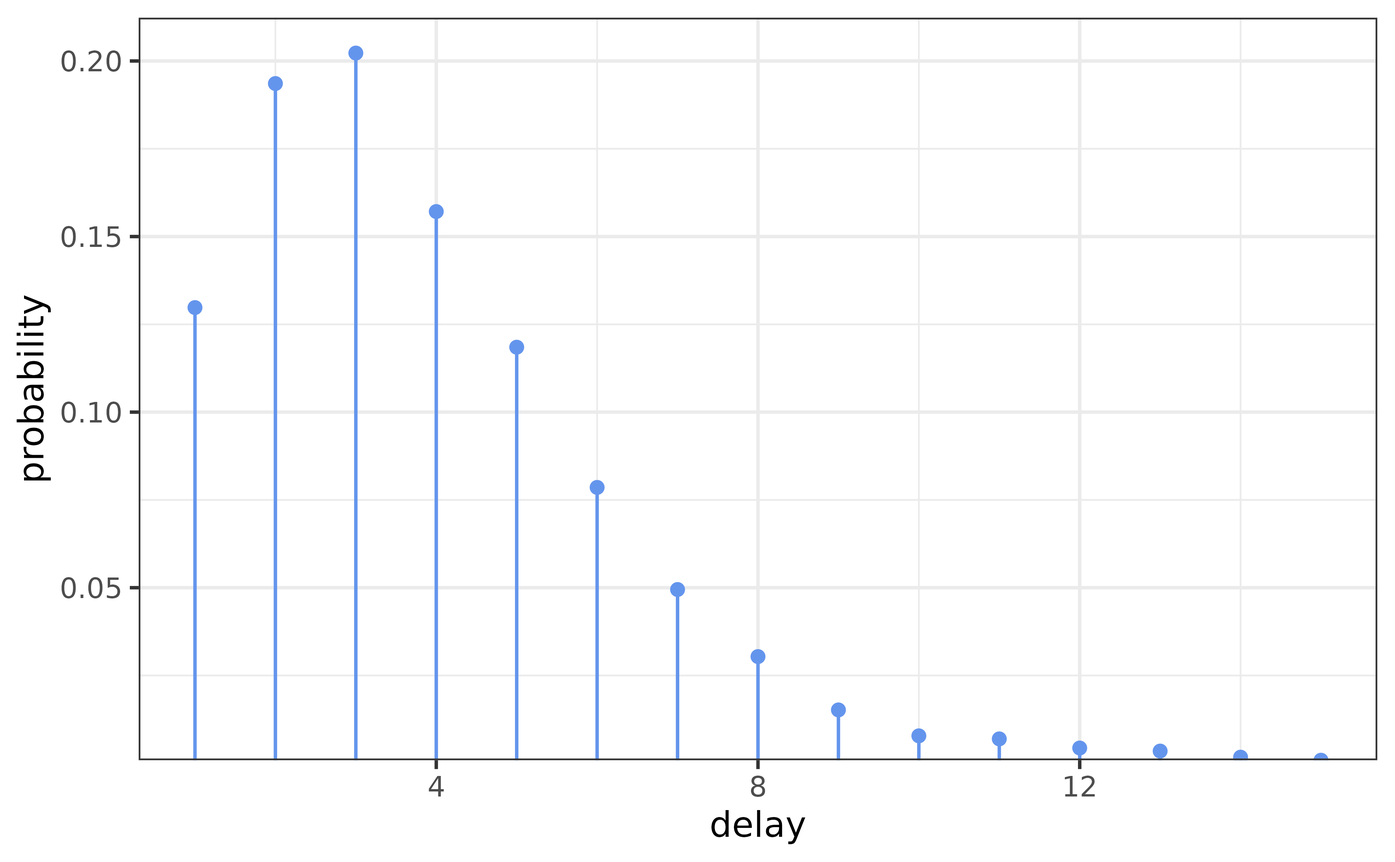
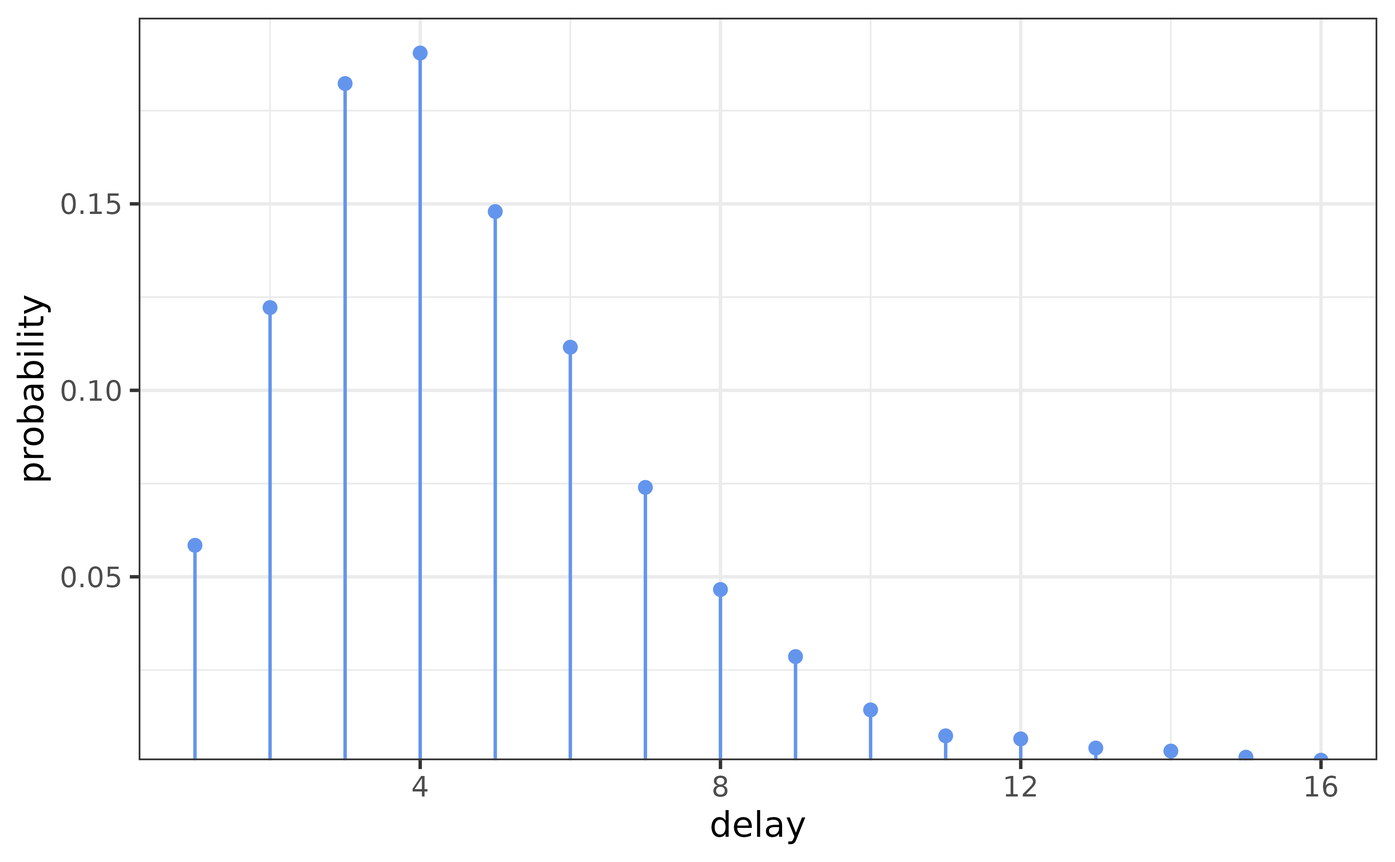
Deploying to gh-pages from @ dajmcdon/rtestim@06ede7e1c2057a1c20ab77ae6ce6dd1f6cf95171 🚀

diff --git a/articles/delay-distributions.html b/articles/delay-distributions.html
@@ -31,7 +31,7 @@
 
     <a class="navbar-brand me-2" href="../index.html">rtestim</a>
 
-    <small class="nav-text text-muted me-auto" data-bs-toggle="tooltip" data-bs-placement="bottom" title="">1.0.0.9001</small>
+    <small class="nav-text text-muted me-auto" data-bs-toggle="tooltip" data-bs-placement="bottom" title="">1.0.0.9002</small>
 
 
     <button class="navbar-toggler" type="button" data-bs-toggle="collapse" data-bs-target="#navbar" aria-controls="navbar" aria-expanded="false" aria-label="Toggle navigation">
@@ -83,21 +83,22 @@
 <span><span class="kw"><a href="https://rdrr.io/r/base/library.html" class="external-link">library</a></span><span class="op">(</span><span class="va"><a href="http://www.stats.ox.ac.uk/pub/MASS4/" class="external-link">nnet</a></span><span class="op">)</span></span>
 <span><span class="kw"><a href="https://rdrr.io/r/base/library.html" class="external-link">library</a></span><span class="op">(</span><span class="va"><a href="https://forcats.tidyverse.org/" class="external-link">forcats</a></span><span class="op">)</span></span>
 <span><span class="kw"><a href="https://rdrr.io/r/base/library.html" class="external-link">library</a></span><span class="op">(</span><span class="va"><a href="https://tidyr.tidyverse.org" class="external-link">tidyr</a></span><span class="op">)</span></span>
+<span><span class="kw"><a href="https://rdrr.io/r/base/library.html" class="external-link">library</a></span><span class="op">(</span><span class="va"><a href="https://Matrix.R-forge.R-project.org" class="external-link">Matrix</a></span><span class="op">)</span></span>
 <span><span class="fu"><a href="https://ggplot2.tidyverse.org/reference/theme_get.html" class="external-link">theme_set</a></span><span class="op">(</span><span class="fu"><a href="https://ggplot2.tidyverse.org/reference/ggtheme.html" class="external-link">theme_bw</a></span><span class="op">(</span><span class="op">)</span><span class="op">)</span></span></code></pre></div>
 <p>This package accommodates 3 different ways of specifying a delay
 distribution in the renewal equation, and this vignette illustrates
 these in turn. The renewal equation specifies that the expected
 incidence at time <span class="math inline">\(t\)</span> is a weighted
 sum of previous incidence, multiplied by <span class="math inline">\(R_t\)</span>: <span class="math display">\[\begin{equation}
-\mathbb{E}[I_t \mid I_1,\ldots,I_{t-1}] = R_t \sum_{a=1}^t w_a I_{t-a},
+\mathbb{E}[I_t \mid I_1,\ldots,I_{t-1}] = R_t \sum_{a=0}^t w_a I_{t-a},
 \end{equation}\]</span> calculated by convolving the preceding <span class="math inline">\(a\)</span> days of new infections with the
 discretized generation (or serial) interval distribution <span class="math inline">\(w\)</span> of length <span class="math inline">\(t\)</span>. It is the allowable distributions
-<span class="math inline">\(\{w\}_{a=1}^n\)</span> that are the
+<span class="math inline">\(\{w\}_{a=0}^n\)</span> that are the
 focus.</p>
 <div class="section level2">
 <h2 id="discretization">Discretization<a class="anchor" aria-label="anchor" href="#discretization"></a>
 </h2>
-<p>First, it is important to recognize that the sequence <span class="math inline">\(\{w\}_{a=1}^n\)</span> is usually a discretization
+<p>First, it is important to recognize that the sequence <span class="math inline">\(\{w\}_{a=0}^n\)</span> is usually a discretization
 of a probability density function, most frequently gamma or Weibull.
 This is because observed incidence happens at discrete time points like
 days or weeks, while time is continuous. Using the default (parametric)
@@ -117,22 +118,23 @@ below shows a few examples densities from this family.</p>
 <p><img src="delay-distributions_files/figure-html/gamma-pdf-1.png" width="80%" style="display: block; margin: auto;"></p>
 <p>The default is the orange curve shown above. Given an incidence
 sequence of length <span class="math inline">\(n\)</span>, internally,
-<code><a href="../reference/delay_calculator.html">delay_calculator()</a></code> creates <span class="math inline">\(\{w\}_{a=1}^n\)</span> by <span class="math display">\[
-w_a = F(a) - F(a - 1),
+<code><a href="../reference/delay_calculator.html">delay_calculator()</a></code> creates <span class="math inline">\(\{w\}_{a=0}^n\)</span> by <span class="math display">\[
+w_a = F(a + 1) - F(a - 1),
 \]</span> and then renormalizing with <code>w / sum(w)</code> to ensure
 that it sums to 1. Here, <span class="math inline">\(F\)</span> is the
 cumulative distribution function for Gamma (though similar works for any
 continuous distribution). Note that this formula assumes that the
-probability of a 0 delay is 0 and that the probability of a delay of
-<span class="math inline">\(a\)</span> is really <span class="math display">\[
-\int_{a-1}^a f_W(w) \, dw = F(a) - F(a-1).
-\]</span></p>
+probability of a 0 delay is <em>not</em> 0. This is related to the
+phenomenon of “double interval censoring”: a primary infection on day
+<span class="math inline">\(t\)</span> may have occurred any time
+between 0:00 and 23:59 and the same for a secondary infection on day
+<span class="math inline">\(t+1\)</span>. So even if the gap in reported
+days is only “1 day”, those infections may have happened as little as a
+few minutes apart, or as much as 48 hours apart.</p>
 <p>When using this default, the delay distribution is necessarily
 assumed to be the same for all <span class="math inline">\(t\)</span>,
 and we compute the convolution of <code>w</code> and <code>I</code> with
-the Fast Fourier Transform. Finally, an adjustment is made to handle the
-first observation. We define <span class="math inline">\(I_0 =
-I_1\)</span>.</p>
+the Fast Fourier Transform.</p>
 <p>Just to illustrate this behaviour, we show the results for the
 default setting on the included <code>cancovid</code> data.</p>
 <div class="sourceCode" id="cb2"><pre class="downlit sourceCode r">
@@ -153,9 +155,9 @@ and use this as our (constant) delay distribution.</p>
 <div class="sourceCode" id="cb3"><pre class="downlit sourceCode r">
 <code class="sourceCode R"><span><span class="co"># Data from Backer et al.</span></span>
 <span><span class="va">delay</span> <span class="op">&lt;-</span> <span class="fu"><a href="https://rdrr.io/r/utils/read.table.html" class="external-link">read.csv</a></span><span class="op">(</span><span class="st">"backer.csv"</span><span class="op">)</span> <span class="op">|&gt;</span></span>
-<span>  <span class="fu"><a href="https://dplyr.tidyverse.org/reference/filter.html" class="external-link">filter</a></span><span class="op">(</span><span class="va">delay</span> <span class="op">&gt;</span> <span class="fl">0</span><span class="op">)</span> <span class="op">|&gt;</span></span>
+<span>  <span class="fu"><a href="https://dplyr.tidyverse.org/reference/filter.html" class="external-link">filter</a></span><span class="op">(</span><span class="va">delay</span> <span class="op">&gt;=</span> <span class="fl">0</span><span class="op">)</span> <span class="op">|&gt;</span></span>
 <span>  <span class="fu"><a href="https://dplyr.tidyverse.org/reference/select.html" class="external-link">select</a></span><span class="op">(</span><span class="op">-</span><span class="va">delay</span><span class="op">)</span></span>
-<span><span class="va">delay</span> <span class="op">&lt;-</span> <span class="fu"><a href="https://rdrr.io/r/base/colSums.html" class="external-link">rowSums</a></span><span class="op">(</span><span class="va">delay</span><span class="op">)</span></span>
+<span><span class="va">delay</span> <span class="op">&lt;-</span> <span class="fu"><a href="https://rdrr.io/pkg/Matrix/man/colSums-methods.html" class="external-link">rowSums</a></span><span class="op">(</span><span class="va">delay</span><span class="op">)</span></span>
 <span><span class="va">delay</span> <span class="op">&lt;-</span> <span class="va">delay</span> <span class="op">/</span> <span class="fu"><a href="https://rdrr.io/r/base/sum.html" class="external-link">sum</a></span><span class="op">(</span><span class="va">delay</span><span class="op">)</span></span></code></pre></div>
 <p><img src="delay-distributions_files/figure-html/cancov-nonpar-plot-1.png" width="80%" style="display: block; margin: auto;"></p>
 <p>This distribution looks something like a gamma, but it has finite
@@ -183,12 +185,11 @@ et al. delays, the necessary code is the following.</p>
 <div class="sourceCode" id="cb5"><pre class="downlit sourceCode r">
 <code class="sourceCode R"><span><span class="co"># library(Matrix)</span></span>
 <span><span class="va">n</span> <span class="op">&lt;-</span> <span class="fu"><a href="https://rdrr.io/r/base/nrow.html" class="external-link">nrow</a></span><span class="op">(</span><span class="va">cancovid</span><span class="op">)</span></span>
-<span><span class="va">backer_delay</span> <span class="op">&lt;-</span> <span class="fu"><a href="https://rdrr.io/r/base/c.html" class="external-link">c</a></span><span class="op">(</span><span class="fl">0</span>, <span class="va">delay</span>, <span class="fu"><a href="https://rdrr.io/r/base/rep.html" class="external-link">rep</a></span><span class="op">(</span><span class="fl">0</span>, <span class="va">n</span> <span class="op">-</span> <span class="fu"><a href="https://rdrr.io/r/base/length.html" class="external-link">length</a></span><span class="op">(</span><span class="va">delay</span><span class="op">)</span> <span class="op">-</span> <span class="fl">1</span><span class="op">)</span><span class="op">)</span></span>
+<span><span class="va">backer_delay</span> <span class="op">&lt;-</span> <span class="fu"><a href="https://rdrr.io/r/base/c.html" class="external-link">c</a></span><span class="op">(</span><span class="va">delay</span>, <span class="fu"><a href="https://rdrr.io/r/base/rep.html" class="external-link">rep</a></span><span class="op">(</span><span class="fl">0</span>, <span class="va">n</span> <span class="op">-</span> <span class="fu"><a href="https://rdrr.io/r/base/length.html" class="external-link">length</a></span><span class="op">(</span><span class="va">delay</span><span class="op">)</span> <span class="op">-</span> <span class="fl">1</span><span class="op">)</span><span class="op">)</span></span>
 <span><span class="va">delay_mat</span> <span class="op">&lt;-</span> <span class="fu"><a href="https://rdrr.io/r/base/matrix.html" class="external-link">matrix</a></span><span class="op">(</span><span class="fl">0</span>, <span class="va">n</span>, <span class="va">n</span><span class="op">)</span></span>
-<span><span class="va">delay_mat</span><span class="op">[</span><span class="fl">1</span>,<span class="fl">1</span><span class="op">]</span> <span class="op">&lt;-</span> <span class="fl">1</span></span>
-<span><span class="kw">for</span> <span class="op">(</span><span class="va">iter</span> <span class="kw">in</span> <span class="fl">2</span><span class="op">:</span><span class="va">n</span><span class="op">)</span> <span class="va">delay_mat</span><span class="op">[</span><span class="va">iter</span>, <span class="fl">1</span><span class="op">:</span><span class="va">iter</span><span class="op">]</span> <span class="op">&lt;-</span> <span class="fu"><a href="https://rdrr.io/r/base/rev.html" class="external-link">rev</a></span><span class="op">(</span><span class="va">backer_delay</span><span class="op">[</span><span class="fl">1</span><span class="op">:</span><span class="va">iter</span><span class="op">]</span><span class="op">)</span></span>
-<span><span class="va">delay_mat</span> <span class="op">&lt;-</span> <span class="fu">drop0</span><span class="op">(</span><span class="fu">as</span><span class="op">(</span><span class="va">delay_mat</span>, <span class="st">"CsparseMatrix"</span><span class="op">)</span><span class="op">)</span> <span class="co"># make it sparse, not necessary</span></span>
-<span><span class="va">delay_mat</span> <span class="op">&lt;-</span> <span class="va">delay_mat</span> <span class="op">/</span> <span class="fu"><a href="https://rdrr.io/r/base/colSums.html" class="external-link">rowSums</a></span><span class="op">(</span><span class="va">delay_mat</span><span class="op">)</span> <span class="co"># renormalize</span></span></code></pre></div>
+<span><span class="kw">for</span> <span class="op">(</span><span class="va">iter</span> <span class="kw">in</span> <span class="fl">1</span><span class="op">:</span><span class="va">n</span><span class="op">)</span> <span class="va">delay_mat</span><span class="op">[</span><span class="va">iter</span>, <span class="fl">1</span><span class="op">:</span><span class="va">iter</span><span class="op">]</span> <span class="op">&lt;-</span> <span class="fu"><a href="https://rdrr.io/r/base/rev.html" class="external-link">rev</a></span><span class="op">(</span><span class="va">backer_delay</span><span class="op">[</span><span class="fl">1</span><span class="op">:</span><span class="va">iter</span><span class="op">]</span><span class="op">)</span></span>
+<span><span class="va">delay_mat</span> <span class="op">&lt;-</span> <span class="fu"><a href="https://rdrr.io/pkg/Matrix/man/drop0.html" class="external-link">drop0</a></span><span class="op">(</span><span class="fu"><a href="https://rdrr.io/r/methods/as.html" class="external-link">as</a></span><span class="op">(</span><span class="va">delay_mat</span>, <span class="st">"CsparseMatrix"</span><span class="op">)</span><span class="op">)</span> <span class="co"># make it sparse, not necessary</span></span>
+<span><span class="va">delay_mat</span> <span class="op">&lt;-</span> <span class="va">delay_mat</span> <span class="op">/</span> <span class="fu"><a href="https://rdrr.io/pkg/Matrix/man/colSums-methods.html" class="external-link">rowSums</a></span><span class="op">(</span><span class="va">delay_mat</span><span class="op">)</span> <span class="co"># renormalize</span></span></code></pre></div>
 <p>We could then simply pass <code>delay_mat</code> to
 <code>estimate_rt(..., delay_distn = delay_mat)</code>. The result would
 be the same as that shown above.</p>
@@ -329,11 +330,9 @@ prevalent in Canada.</p>
 <p>We use these delays during the period they were most prevalent to
 estimate Rt. First, we build the delay matrix.</p>
 <div class="sourceCode" id="cb8"><pre class="downlit sourceCode r">
-<code class="sourceCode R"><span><span class="kw"><a href="https://rdrr.io/r/base/library.html" class="external-link">library</a></span><span class="op">(</span><span class="va"><a href="https://Matrix.R-forge.R-project.org" class="external-link">Matrix</a></span><span class="op">)</span></span>
-<span><span class="va">n</span> <span class="op">&lt;-</span> <span class="fu"><a href="https://rdrr.io/r/base/nrow.html" class="external-link">nrow</a></span><span class="op">(</span><span class="va">cancovid</span><span class="op">)</span></span>
+<code class="sourceCode R"><span><span class="va">n</span> <span class="op">&lt;-</span> <span class="fu"><a href="https://rdrr.io/r/base/nrow.html" class="external-link">nrow</a></span><span class="op">(</span><span class="va">cancovid</span><span class="op">)</span></span>
 <span><span class="va">delay_mat</span> <span class="op">&lt;-</span> <span class="fu"><a href="https://rdrr.io/r/base/matrix.html" class="external-link">matrix</a></span><span class="op">(</span><span class="fl">0</span>, <span class="va">n</span>, <span class="va">n</span><span class="op">)</span></span>
-<span><span class="va">delay_mat</span><span class="op">[</span><span class="fl">1</span>,<span class="fl">1</span><span class="op">]</span> <span class="op">&lt;-</span> <span class="fl">1</span></span>
-<span><span class="kw">for</span> <span class="op">(</span><span class="va">iter</span> <span class="kw">in</span> <span class="fl">2</span><span class="op">:</span><span class="va">n</span><span class="op">)</span> <span class="op">{</span></span>
+<span><span class="kw">for</span> <span class="op">(</span><span class="va">iter</span> <span class="kw">in</span> <span class="fl">1</span><span class="op">:</span><span class="va">n</span><span class="op">)</span> <span class="op">{</span></span>
 <span>  <span class="va">current_var</span> <span class="op">&lt;-</span> <span class="va">can_pred_class</span><span class="op">$</span><span class="va">var</span><span class="op">[</span><span class="va">iter</span><span class="op">]</span></span>
 <span>  <span class="va">current_pars</span> <span class="op">&lt;-</span> <span class="va">delay_dstns_can</span> <span class="op">|&gt;</span> <span class="fu"><a href="https://dplyr.tidyverse.org/reference/filter.html" class="external-link">filter</a></span><span class="op">(</span><span class="va">type</span> <span class="op">==</span> <span class="va">current_var</span><span class="op">)</span></span>
 <span>  <span class="va">delay</span> <span class="op">&lt;-</span> <span class="fu"><a href="../reference/discretize_gamma.html">discretize_gamma</a></span><span class="op">(</span><span class="fl">0</span><span class="op">:</span><span class="op">(</span><span class="va">iter</span> <span class="op">-</span> <span class="fl">1</span><span class="op">)</span>, <span class="va">current_pars</span><span class="op">$</span><span class="va">shape</span>, <span class="va">current_pars</span><span class="op">$</span><span class="va">scale</span><span class="op">)</span></span>

diff --git a/articles/rtestim.html b/articles/rtestim.html
@@ -31,7 +31,7 @@
 
     <a class="navbar-brand me-2" href="../index.html">rtestim</a>
 
-    <small class="nav-text text-muted me-auto" data-bs-toggle="tooltip" data-bs-placement="bottom" title="">1.0.0.9001</small>
+    <small class="nav-text text-muted me-auto" data-bs-toggle="tooltip" data-bs-placement="bottom" title="">1.0.0.9002</small>
 
 
     <button class="navbar-toggler" type="button" data-bs-toggle="collapse" data-bs-target="#navbar" aria-controls="navbar" aria-expanded="false" aria-label="Toggle navigation">
@@ -106,7 +106,7 @@ smoothness on the solution and <span class="math inline">\(\lambda\)</span> cont
 smoothness, with larger <span class="math inline">\(\lambda\)</span>
 resulting in smoother estimates.</p>
 <p>In particular <span class="math display">\[\begin{equation}
-x_t = \sum_{a = 1}^m y_{t-a} w_a
+x_t = \sum_{a = 0}^m y_{t-a} w_a
 \end{equation}\]</span> is the weighted sum of previous incidence at
 <span class="math inline">\(t\)</span>, calculated by convolving the
 preceding <span class="math inline">\(m\)</span> days of new infections
@@ -198,12 +198,16 @@ representing the days at which we observe the case counts.</p>
 <div class="sourceCode" id="cb7"><pre class="downlit sourceCode r">
 <code class="sourceCode R"><span><span class="va">observation_incr</span> <span class="op">&lt;-</span> <span class="fu"><a href="https://rdrr.io/r/stats/Poisson.html" class="external-link">rpois</a></span><span class="op">(</span><span class="fl">101</span>, lambda <span class="op">=</span> <span class="fl">2</span><span class="op">)</span></span>
 <span><span class="va">observation_incr</span><span class="op">[</span><span class="va">observation_incr</span> <span class="op">==</span> <span class="fl">0</span><span class="op">]</span> <span class="op">&lt;-</span> <span class="fl">1</span></span>
-<span><span class="va">observation_time</span> <span class="op">&lt;-</span> <span class="fu"><a href="https://rdrr.io/r/base/cumsum.html" class="external-link">cumsum</a></span><span class="op">(</span><span class="va">observation_incr</span><span class="op">)</span></span></code></pre></div>
+<span><span class="va">observation_time</span> <span class="op">&lt;-</span> <span class="fu"><a href="https://rdrr.io/r/base/cumsum.html" class="external-link">cumsum</a></span><span class="op">(</span><span class="va">observation_incr</span><span class="op">)</span></span>
+<span><span class="fu"><a href="https://ggplot2.tidyverse.org/reference/ggplot.html" class="external-link">ggplot</a></span><span class="op">(</span><span class="fu"><a href="https://rdrr.io/r/base/data.frame.html" class="external-link">data.frame</a></span><span class="op">(</span>x <span class="op">=</span> <span class="va">observation_time</span>, <span class="va">case_counts</span><span class="op">)</span>, <span class="fu"><a href="https://ggplot2.tidyverse.org/reference/aes.html" class="external-link">aes</a></span><span class="op">(</span><span class="va">x</span>, <span class="va">case_counts</span><span class="op">)</span><span class="op">)</span> <span class="op">+</span></span>
+<span>  <span class="fu"><a href="https://ggplot2.tidyverse.org/reference/geom_point.html" class="external-link">geom_point</a></span><span class="op">(</span>colour <span class="op">=</span> <span class="st">"cornflowerblue"</span><span class="op">)</span> <span class="op">+</span></span>
+<span>  <span class="fu"><a href="https://ggplot2.tidyverse.org/reference/labs.html" class="external-link">labs</a></span><span class="op">(</span>x <span class="op">=</span> <span class="st">"Time"</span>, y <span class="op">=</span> <span class="st">"Case Counts"</span><span class="op">)</span></span></code></pre></div>
+<p><img src="rtestim_files/figure-html/unnamed-chunk-7-1.png" width="80%" style="display: block; margin: auto;"></p>
 <p>We can then fit the model by passing the observation time point as
 <code>x</code>.</p>
 <div class="sourceCode" id="cb8"><pre class="downlit sourceCode r">
 <code class="sourceCode R"><span><span class="va">mod</span> <span class="op">&lt;-</span> <span class="fu"><a href="../reference/estimate_rt.html">estimate_rt</a></span><span class="op">(</span>observed_counts <span class="op">=</span> <span class="va">case_counts</span>, x <span class="op">=</span> <span class="va">observation_time</span><span class="op">)</span></span>
-<span><span class="fu"><a href="https://rdrr.io/r/graphics/plot.default.html" class="external-link">plot</a></span><span class="op">(</span><span class="va">mod</span><span class="op">)</span> <span class="op">+</span> <span class="fu"><a href="https://ggplot2.tidyverse.org/reference/coord_cartesian.html" class="external-link">coord_cartesian</a></span><span class="op">(</span>ylim <span class="op">=</span> <span class="fu"><a href="https://rdrr.io/r/base/c.html" class="external-link">c</a></span><span class="op">(</span><span class="fl">0</span>, <span class="fl">5</span><span class="op">)</span><span class="op">)</span></span></code></pre></div>
+<span><span class="fu"><a href="https://rdrr.io/r/graphics/plot.default.html" class="external-link">plot</a></span><span class="op">(</span><span class="va">mod</span><span class="op">)</span></span></code></pre></div>
 <p><img src="rtestim_files/figure-html/unnamed-chunk-8-1.png" width="80%" style="display: block; margin: auto;"></p>
 </div>
 <div class="section level3">

diff --git a/reference/estimate_rt.html b/reference/estimate_rt.html
@@ -29,7 +29,7 @@ difference matrix."><meta property="og:image" content="https://dajmcdon.github.i
 
     <a class="navbar-brand me-2" href="../index.html">rtestim</a>
 
-    <small class="nav-text text-muted me-auto" data-bs-toggle="tooltip" data-bs-placement="bottom" title="">1.0.0.9001</small>
+    <small class="nav-text text-muted me-auto" data-bs-toggle="tooltip" data-bs-placement="bottom" title="">1.0.0.9002</small>
 
 
     <button class="navbar-toggler" type="button" data-bs-toggle="collapse" data-bs-target="#navbar" aria-controls="navbar" aria-expanded="false" aria-label="Toggle navigation">
@@ -234,11 +234,11 @@ than the maximum number of iterations for the estimation algorithm.</p></li>
 <span class="r-out co"><span class="r-pr">#&gt;</span> Summary of the 40 estimated models:</span>
 <span class="r-out co"><span class="r-pr">#&gt;</span> </span>
 <span class="r-out co"><span class="r-pr">#&gt;</span>           lambda index approx_dof niterations</span>
-<span class="r-out co"><span class="r-pr">#&gt;</span> Max.    7.93e-01     1         77           0</span>
-<span class="r-out co"><span class="r-pr">#&gt;</span> 3rd Qu. 7.48e-02    11         86           0</span>
-<span class="r-out co"><span class="r-pr">#&gt;</span> Median  8.93e-03    20         86           0</span>
-<span class="r-out co"><span class="r-pr">#&gt;</span> 1st Qu. 8.42e-04    30         86           0</span>
-<span class="r-out co"><span class="r-pr">#&gt;</span> Min.    7.93e-05    40         86           0</span>
+<span class="r-out co"><span class="r-pr">#&gt;</span> Max.    188.6196     1          1           0</span>
+<span class="r-out co"><span class="r-pr">#&gt;</span> 3rd Qu.  17.7806    11          6           0</span>
+<span class="r-out co"><span class="r-pr">#&gt;</span> Median    2.1226    20         29           0</span>
+<span class="r-out co"><span class="r-pr">#&gt;</span> 1st Qu.   0.2001    30         90           0</span>
+<span class="r-out co"><span class="r-pr">#&gt;</span> Min.      0.0189    40         95           0</span>
 <span class="r-out co"><span class="r-pr">#&gt;</span> </span>
 <span class="r-in"><span><span class="fu"><a href="https://rdrr.io/r/graphics/plot.default.html" class="external-link">plot</a></span><span class="op">(</span><span class="va">out0</span><span class="op">)</span></span></span>
 <span class="r-plt img"><img src="estimate_rt-2.png" alt="" width="700" height="433"></span>

diff --git a/news/index.html b/news/index.html
@@ -13,7 +13,7 @@
 
     <a class="navbar-brand me-2" href="../index.html">rtestim</a>
 
-    <small class="nav-text text-muted me-auto" data-bs-toggle="tooltip" data-bs-placement="bottom" title="">1.0.0.9001</small>
+    <small class="nav-text text-muted me-auto" data-bs-toggle="tooltip" data-bs-placement="bottom" title="">1.0.0.9002</small>
 
 
     <button class="navbar-toggler" type="button" data-bs-toggle="collapse" data-bs-target="#navbar" aria-controls="navbar" aria-expanded="false" aria-label="Toggle navigation">
@@ -46,6 +46,7 @@
 <h2 class="pkg-version" data-toc-text="development version" id="rtestim-development-version">rtestim (development version)<a class="anchor" aria-label="anchor" href="#rtestim-development-version"></a></h2>
 <ul><li>Added a <code>NEWS.md</code> file to track changes to the package.</li>
 <li>Account for double interval censoring in <code><a href="../reference/discretize_gamma.html">discretize_gamma()</a></code> <a href="https://github.com/dajmcdon/rtestim/issues/81" class="external-link">#81</a>.</li>
+<li>Bug fix for <code>korder=0</code> introduced by the change to <a href="https://github.com/glmgen/tvdenoising" class="external-link">tvdenoising</a>.</li>
 </ul></div>
     <div class="section level2">
 <h2 class="pkg-version" data-toc-text="1.0.0" id="rtestim-100">rtestim 1.0.0<a class="anchor" aria-label="anchor" href="#rtestim-100"></a></h2><p class="text-muted">CRAN release: 2025-07-05</p>

diff --git a/authors.html b/authors.html
@@ -13,7 +13,7 @@
 
     <a class="navbar-brand me-2" href="index.html">rtestim</a>
 
-    <small class="nav-text text-muted me-auto" data-bs-toggle="tooltip" data-bs-placement="bottom" title="">1.0.0.9001</small>
+    <small class="nav-text text-muted me-auto" data-bs-toggle="tooltip" data-bs-placement="bottom" title="">1.0.0.9002</small>
 
 
     <button class="navbar-toggler" type="button" data-bs-toggle="collapse" data-bs-target="#navbar" aria-controls="navbar" aria-expanded="false" aria-label="Toggle navigation">
@@ -64,13 +64,13 @@
 
       <p>McDonald D, Liu J (2025).
 <em>rtestim: Estimate the Effective Reproductive Number with Trend Filtering</em>.
-R package version 1.0.0.9001, <a href="https://github.com/dajmcdon/rtestim" class="external-link">https://github.com/dajmcdon/rtestim</a>.
+R package version 1.0.0.9002, <a href="https://github.com/dajmcdon/rtestim" class="external-link">https://github.com/dajmcdon/rtestim</a>.
 </p>
       <pre>@Manual{,
   title = {rtestim: Estimate the Effective Reproductive Number with Trend Filtering},
   author = {Daniel J. McDonald and Jiaping Liu},
   year = {2025},
-  note = {R package version 1.0.0.9001},
+  note = {R package version 1.0.0.9002},
   url = {https://github.com/dajmcdon/rtestim},
 }</pre>
     </div>

diff --git a/reference/cancovid.html b/reference/cancovid.html
@@ -17,7 +17,7 @@ July 4, 2023."><meta property="og:image" content="https://dajmcdon.github.io/rte
 
     <a class="navbar-brand me-2" href="../index.html">rtestim</a>
 
-    <small class="nav-text text-muted me-auto" data-bs-toggle="tooltip" data-bs-placement="bottom" title="">1.0.0.9001</small>
+    <small class="nav-text text-muted me-auto" data-bs-toggle="tooltip" data-bs-placement="bottom" title="">1.0.0.9002</small>
 
 
     <button class="navbar-toggler" type="button" data-bs-toggle="collapse" data-bs-target="#navbar" aria-controls="navbar" aria-expanded="false" aria-label="Toggle navigation">

diff --git a/reference/confband.html b/reference/confband.html
@@ -15,7 +15,7 @@ that the variance computation is approximate."><meta property="og:image" content
 
     <a class="navbar-brand me-2" href="../index.html">rtestim</a>
 
-    <small class="nav-text text-muted me-auto" data-bs-toggle="tooltip" data-bs-placement="bottom" title="">1.0.0.9001</small>
+    <small class="nav-text text-muted me-auto" data-bs-toggle="tooltip" data-bs-placement="bottom" title="">1.0.0.9002</small>
 
 
     <button class="navbar-toggler" type="button" data-bs-toggle="collapse" data-bs-target="#navbar" aria-controls="navbar" aria-expanded="false" aria-label="Toggle navigation">

diff --git a/reference/delay_calculator.html b/reference/delay_calculator.html
@@ -27,7 +27,7 @@ days earlier."><meta property="og:image" content="https://dajmcdon.github.io/rte
 
     <a class="navbar-brand me-2" href="../index.html">rtestim</a>
 
-    <small class="nav-text text-muted me-auto" data-bs-toggle="tooltip" data-bs-placement="bottom" title="">1.0.0.9001</small>
+    <small class="nav-text text-muted me-auto" data-bs-toggle="tooltip" data-bs-placement="bottom" title="">1.0.0.9002</small>
 
 
     <button class="navbar-toggler" type="button" data-bs-toggle="collapse" data-bs-target="#navbar" aria-controls="navbar" aria-expanded="false" aria-label="Toggle navigation">

diff --git a/reference/discretize_gamma.html b/reference/discretize_gamma.html
@@ -21,7 +21,7 @@ by the shape and scale parameters."><meta property="og:image" content="https://d
 
     <a class="navbar-brand me-2" href="../index.html">rtestim</a>
 
-    <small class="nav-text text-muted me-auto" data-bs-toggle="tooltip" data-bs-placement="bottom" title="">1.0.0.9001</small>
+    <small class="nav-text text-muted me-auto" data-bs-toggle="tooltip" data-bs-placement="bottom" title="">1.0.0.9002</small>
 
 
     <button class="navbar-toggler" type="button" data-bs-toggle="collapse" data-bs-target="#navbar" aria-controls="navbar" aria-expanded="false" aria-label="Toggle navigation">

diff --git a/reference/plot.poisson_rt.html b/reference/plot.poisson_rt.html
@@ -17,7 +17,7 @@ modifications can be added as desired."><meta property="og:image" content="https
 
     <a class="navbar-brand me-2" href="../index.html">rtestim</a>
 
-    <small class="nav-text text-muted me-auto" data-bs-toggle="tooltip" data-bs-placement="bottom" title="">1.0.0.9001</small>
+    <small class="nav-text text-muted me-auto" data-bs-toggle="tooltip" data-bs-placement="bottom" title="">1.0.0.9002</small>
 
 
     <button class="navbar-toggler" type="button" data-bs-toggle="collapse" data-bs-target="#navbar" aria-controls="navbar" aria-expanded="false" aria-label="Toggle navigation">

diff --git a/reference/plot.rt_confidence_band.html b/reference/plot.rt_confidence_band.html
@@ -17,7 +17,7 @@ modifications can be added as desired."><meta property="og:image" content="https
 
     <a class="navbar-brand me-2" href="../index.html">rtestim</a>
 
-    <small class="nav-text text-muted me-auto" data-bs-toggle="tooltip" data-bs-placement="bottom" title="">1.0.0.9001</small>
+    <small class="nav-text text-muted me-auto" data-bs-toggle="tooltip" data-bs-placement="bottom" title="">1.0.0.9002</small>
 
 
     <button class="navbar-toggler" type="button" data-bs-toggle="collapse" data-bs-target="#navbar" aria-controls="navbar" aria-expanded="false" aria-label="Toggle navigation">

diff --git a/reference/predict.cv_poisson_rt.html b/reference/predict.cv_poisson_rt.html
@@ -19,7 +19,7 @@ rather to examine how Rt relates to observables.'><meta property="og:image" cont
 
     <a class="navbar-brand me-2" href="../index.html">rtestim</a>
 
-    <small class="nav-text text-muted me-auto" data-bs-toggle="tooltip" data-bs-placement="bottom" title="">1.0.0.9001</small>
+    <small class="nav-text text-muted me-auto" data-bs-toggle="tooltip" data-bs-placement="bottom" title="">1.0.0.9002</small>
 
 
     <button class="navbar-toggler" type="button" data-bs-toggle="collapse" data-bs-target="#navbar" aria-controls="navbar" aria-expanded="false" aria-label="Toggle navigation">
